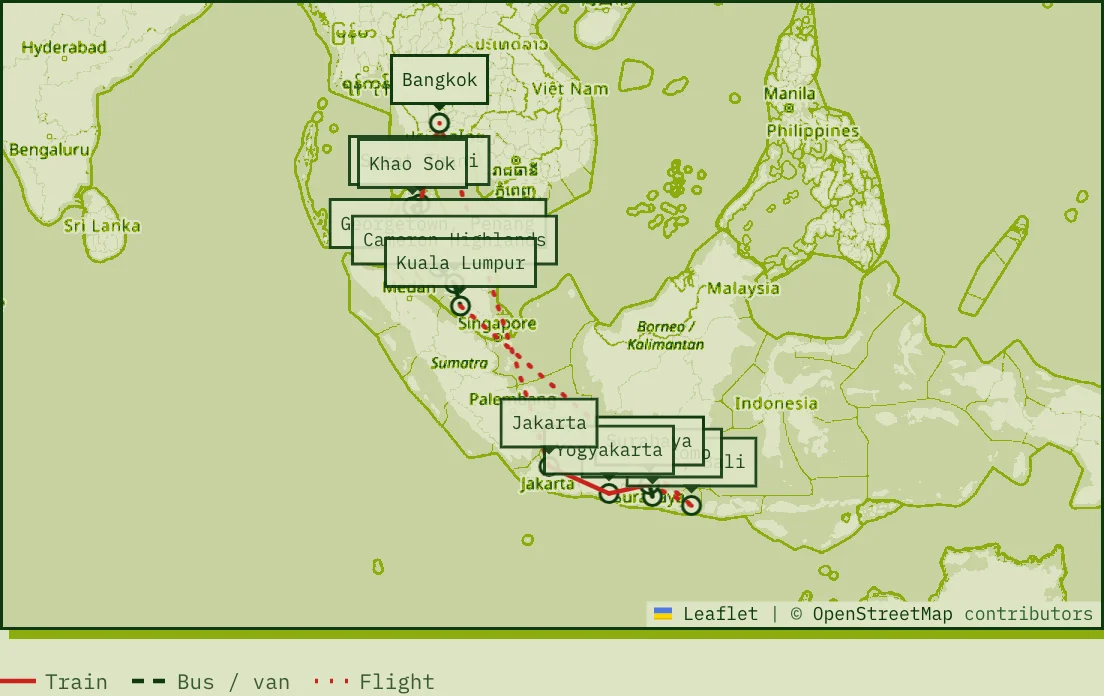
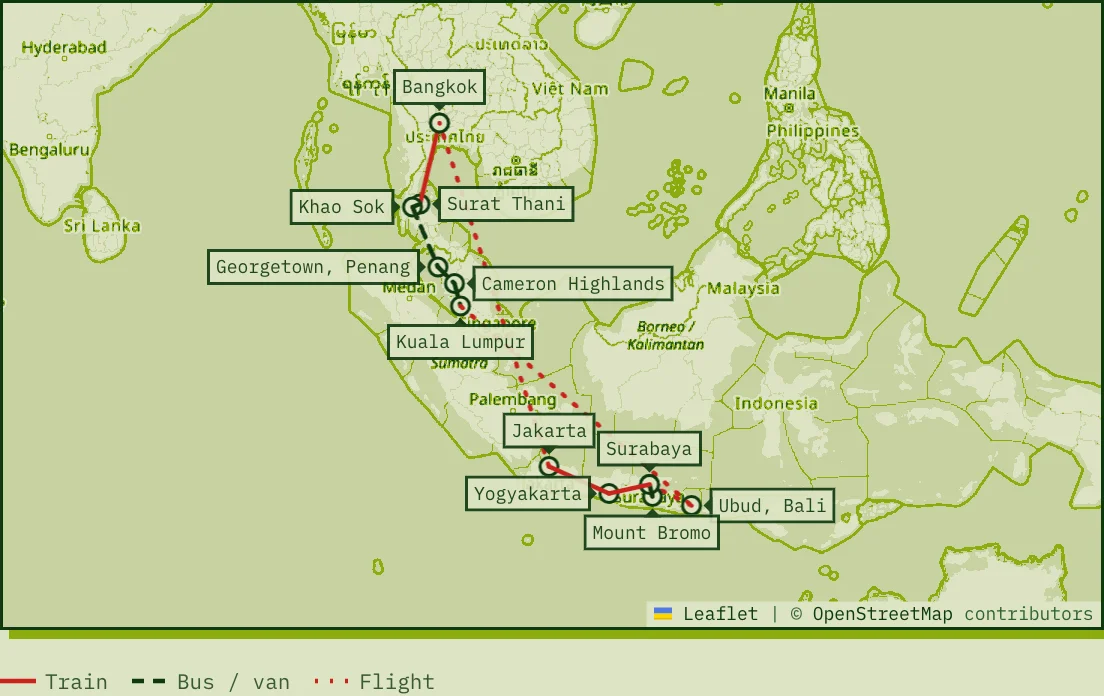
fix(blog): stop route map labels overlapping

Changed region(s): [[0.1848, 0.181, 0.6159, 0.5431], [0.4004, 0.5733, 0.7699, 0.8147], [0.3388, 0.0603, 0.462, 0.1509]]

diff --git a/src/lib/blog/maps/routes.ts b/src/lib/blog/maps/routes.ts
@@ -6,7 +6,16 @@ interface Stop {
 	lat: number;
 	lng: number;
 	mode?: string;
+	label?: Direction;
 }
+
+type Direction = "top" | "bottom" | "left" | "right";
+const LABEL_OFFSETS: Record<Direction, [number, number]> = {
+	top: [0, -6],
+	bottom: [0, 6],
+	left: [-6, 0],
+	right: [6, 0],
+};
 
 // Route overview maps: markers and lines between stops, styled by travel
 // mode, for multi-leg trip posts. Colours come from the route-leg-<mode>
@@ -51,19 +60,28 @@ function initRouteMap({ L, createMap }: Leaflet, el: HTMLElement) {
 	const map = createMap(el);
 	const bounds = L.latLngBounds([]);
 	const usedModes = new Set<string>();
+	const labelled = new Set<string>();
 
 	stops.forEach((stop, idx) => {
 		const latlng: LatLngTuple = [stop.lat, stop.lng];
 		bounds.extend(latlng);
 
-		L.circleMarker(latlng, { radius: 6, weight: 2, className: "route-stop" })
-			.addTo(map)
-			.bindTooltip(stop.name, {
+		const marker = L.circleMarker(latlng, {
+			radius: 6,
+			weight: 2,
+			className: "route-stop",
+		}).addTo(map);
+		// A round trip passes its start again; a second label would sit on the first.
+		if (!labelled.has(stop.name)) {
+			labelled.add(stop.name);
+			const direction = stop.label ?? "top";
+			marker.bindTooltip(stop.name, {
 				permanent: true,
-				direction: "top",
-				offset: [0, -6],
+				direction,
+				offset: LABEL_OFFSETS[direction] ?? LABEL_OFFSETS.top,
 				className: "route-map-label",
 			});
+		}
 
 		const prev = stops[idx - 1];
 		if (!prev) return;

diff --git a/src/styles/blog/map.css b/src/styles/blog/map.css
@@ -127,3 +127,8 @@ html
 		gap: 0.375rem;
 	}
 }
+
+/* Permanent stop labels crowd each other at trip-wide zoom, so keep them small */
+[data-route-map] .leaflet-tooltip.route-map-label {
+	padding: 1px 4px;
+}

diff --git a/src/content/posts/2026-08-17-southeast-asia-2026-part-1.md b/src/content/posts/2026-08-17-southeast-asia-2026-part-1.md
@@ -17,7 +17,7 @@ Most of the itinerary was Ana's work, a rough plan she put together before we le
 
 Here's roughly how it all connected, one leg at a time.
 
-<div data-route-map='[{"name":"Bangkok","lat":13.7563,"lng":100.5018},{"name":"Surat Thani","lat":9.1382,"lng":99.3215,"mode":"train"},{"name":"Khao Sok","lat":8.9202,"lng":98.8347,"mode":"bus"},{"name":"Georgetown, Penang","lat":5.4141,"lng":100.3288,"mode":"bus"},{"name":"Cameron Highlands","lat":4.4726,"lng":101.3776,"mode":"bus"},{"name":"Kuala Lumpur","lat":3.1390,"lng":101.6869,"mode":"bus"},{"name":"Ubud, Bali","lat":-8.5069,"lng":115.2625,"mode":"flight"},{"name":"Surabaya","lat":-7.2575,"lng":112.7521,"mode":"flight"},{"name":"Mount Bromo","lat":-7.9425,"lng":112.9530,"mode":"bus"},{"name":"Surabaya","lat":-7.2575,"lng":112.7521,"mode":"bus"},{"name":"Yogyakarta","lat":-7.7956,"lng":110.3695,"mode":"train"},{"name":"Jakarta","lat":-6.2088,"lng":106.8456,"mode":"train"},{"name":"Bangkok","lat":13.7563,"lng":100.5018,"mode":"flight"}]' style="height:420px" class="not-prose my-6 rounded-lg overflow-hidden"></div>
+<div data-route-map='[{"name":"Bangkok","lat":13.7563,"lng":100.5018},{"name":"Surat Thani","lat":9.1382,"lng":99.3215,"mode":"train","label":"right"},{"name":"Khao Sok","lat":8.9202,"lng":98.8347,"mode":"bus","label":"left"},{"name":"Georgetown, Penang","lat":5.4141,"lng":100.3288,"mode":"bus","label":"left"},{"name":"Cameron Highlands","lat":4.4726,"lng":101.3776,"mode":"bus","label":"right"},{"name":"Kuala Lumpur","lat":3.1390,"lng":101.6869,"mode":"bus","label":"bottom"},{"name":"Ubud, Bali","lat":-8.5069,"lng":115.2625,"mode":"flight","label":"right"},{"name":"Surabaya","lat":-7.2575,"lng":112.7521,"mode":"flight"},{"name":"Mount Bromo","lat":-7.9425,"lng":112.9530,"mode":"bus","label":"bottom"},{"name":"Surabaya","lat":-7.2575,"lng":112.7521,"mode":"bus"},{"name":"Yogyakarta","lat":-7.7956,"lng":110.3695,"mode":"train","label":"left"},{"name":"Jakarta","lat":-6.2088,"lng":106.8456,"mode":"train"},{"name":"Bangkok","lat":13.7563,"lng":100.5018,"mode":"flight"}]' style="height:420px" class="not-prose my-6 rounded-lg overflow-hidden"></div>
 
 ## Bangkok to Khao Sok, by night train
 

diff --git a/src/content/posts/2026-08-26-southeast-asia-2026-part-2.md b/src/content/posts/2026-08-26-southeast-asia-2026-part-2.md
@@ -13,7 +13,7 @@ series: "Southeast Asia 2026"
 
 This is the second part of a five-week trip through Southeast Asia. The [first part](/blog/southeast-asia-2026-part-1) covered Thailand, Malaysia, and Indonesia with Ana. Once she flew home from Bangkok, I still had about ten days left before my own flight, so I did a loop on my own: north to Chiang Mai and Chiang Rai, across the border into Laos, down the Mekong by boat to Luang Prabang, then south by train through Vang Vieng to Vientiane, and back to Bangkok for one last night before flying home.
 
-<div data-route-map='[{"name":"Bangkok","lat":13.7563,"lng":100.5018},{"name":"Chiang Mai","lat":18.7883,"lng":98.9853,"mode":"train"},{"name":"Chiang Rai","lat":19.9105,"lng":99.8406,"mode":"bus"},{"name":"Huay Xai","lat":20.2718,"lng":100.4363,"mode":"bus"},{"name":"Pak Beng","lat":19.8833,"lng":101.1167,"mode":"boat"},{"name":"Luang Prabang","lat":19.8856,"lng":102.1347,"mode":"boat"},{"name":"Vang Vieng","lat":18.9233,"lng":102.4433,"mode":"train"},{"name":"Vientiane","lat":17.9757,"lng":102.6331,"mode":"train"},{"name":"Bangkok","lat":13.7563,"lng":100.5018,"mode":"train"}]' style="height:420px" class="not-prose my-6 rounded-lg overflow-hidden"></div>
+<div data-route-map='[{"name":"Bangkok","lat":13.7563,"lng":100.5018,"label":"bottom"},{"name":"Chiang Mai","lat":18.7883,"lng":98.9853,"mode":"train","label":"left"},{"name":"Chiang Rai","lat":19.9105,"lng":99.8406,"mode":"bus","label":"left"},{"name":"Huay Xai","lat":20.2718,"lng":100.4363,"mode":"bus"},{"name":"Pak Beng","lat":19.8833,"lng":101.1167,"mode":"boat","label":"bottom"},{"name":"Luang Prabang","lat":19.8856,"lng":102.1347,"mode":"boat","label":"right"},{"name":"Vang Vieng","lat":18.9233,"lng":102.4433,"mode":"train","label":"right"},{"name":"Vientiane","lat":17.9757,"lng":102.6331,"mode":"train","label":"right"},{"name":"Bangkok","lat":13.7563,"lng":100.5018,"mode":"train"}]' style="height:420px" class="not-prose my-6 rounded-lg overflow-hidden"></div>
 
 ## Chiang Mai, one temple too many
 
